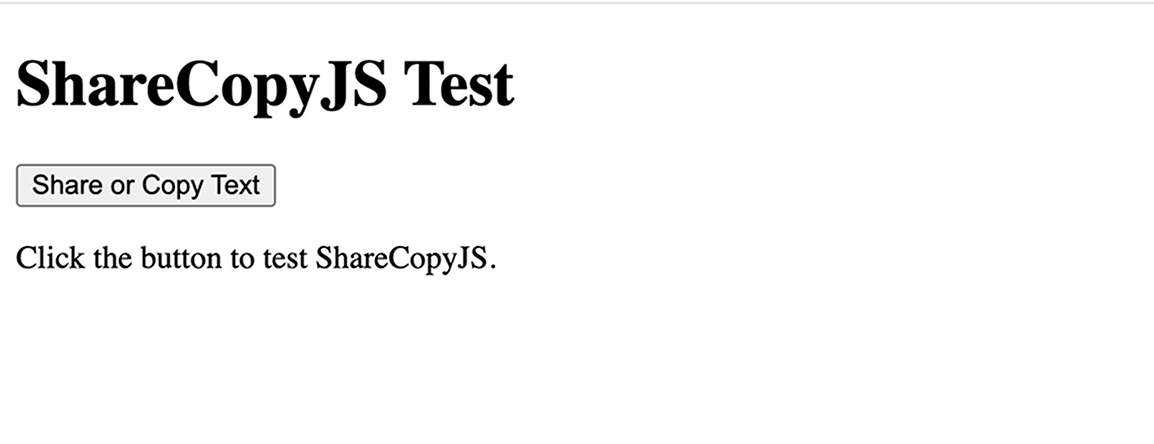
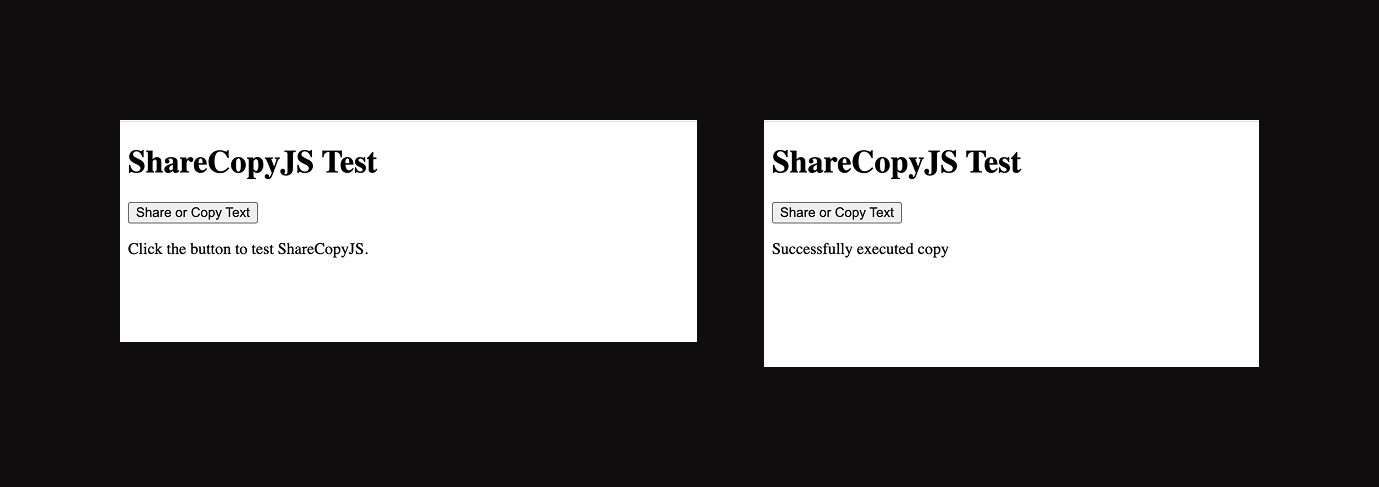
added screenshot

diff --git a/README.md b/README.md
@@ -33,10 +33,9 @@ shareCopy(params);
 
 ## Screenshots
 ### Mobile View
-![Mobile Screenshot 1](https://github.com/kingflamez/sharecopyjs/raw/main/SCREENSHOTS/Mobile1.jpg)
-![Mobile Screenshot 2](https://github.com/kingflamez/sharecopyjs/raw/main/SCREENSHOTS/Mobile2.jpg)
-![Mobile Screenshot 3](https://github.com/kingflamez/sharecopyjs/raw/main/SCREENSHOTS/Mobile3.jpg)
+![Mobile Screenshot](https://github.com/kingflamez/sharecopyjs/raw/main/SCREENSHOTS/Mobile1.jpg)
+Brings up the share tray
 
 ### Web View
-![Web Screenshot 1](https://github.com/kingflamez/sharecopyjs/raw/main/SCREENSHOTS/Web1.jpg)
-![Web Screenshot 2](https://github.com/kingflamez/sharecopyjs/raw/main/SCREENSHOTS/Web2.jpg)
+![Web Screenshot](https://github.com/kingflamez/sharecopyjs/raw/main/SCREENSHOTS/Web1.jpg)
+Copies to clipboard
